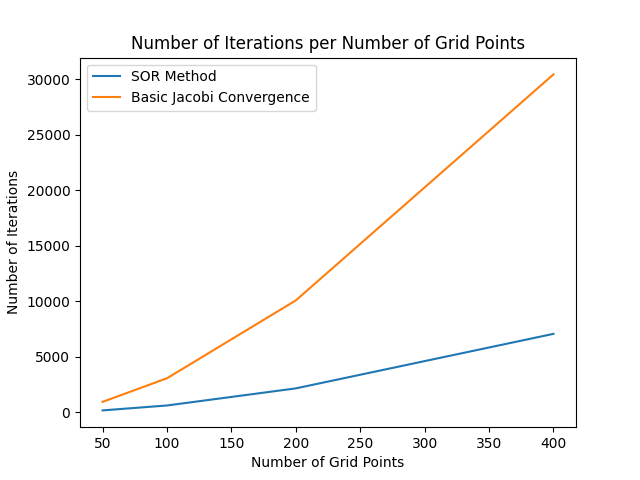
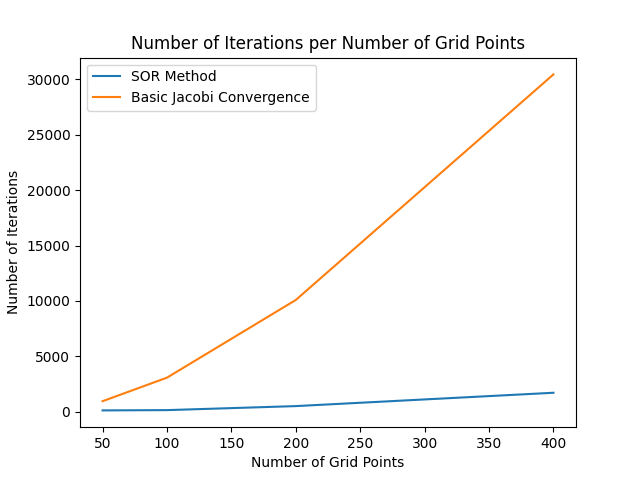
redo plot for part D

diff --git a/ElectricField.py b/ElectricField.py
@@ -87,7 +87,7 @@ def PartE():
     s = 2
     d = N / 100
     for disss in range(3, 13, 2):
-        tableVals = OverRelaxation(1.5, drawit = False, giveb = True, dist = disss)
+        tableVals = OverRelaxation(1.88, drawit = False, giveb = True, dist = disss)
         efieldYpos, efieldXpos, efieldYdir, efieldXdir = ElectricField(tableVals, d = d, s = s)
         pylab.quiver(efieldYpos, efieldXpos, efieldYdir, efieldXdir)
         pylab.title("Electric Field with a Distance of L/" + str(disss) + " Between Plates")
@@ -96,4 +96,4 @@ def PartE():
         pylab.clf()
 
 if __name__ == "__main__":
-    print(PartC(True))
+    PartD(1.88)
